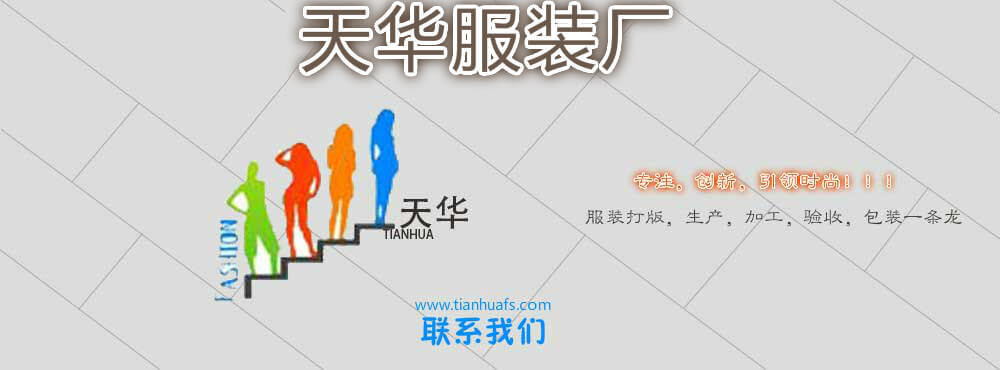
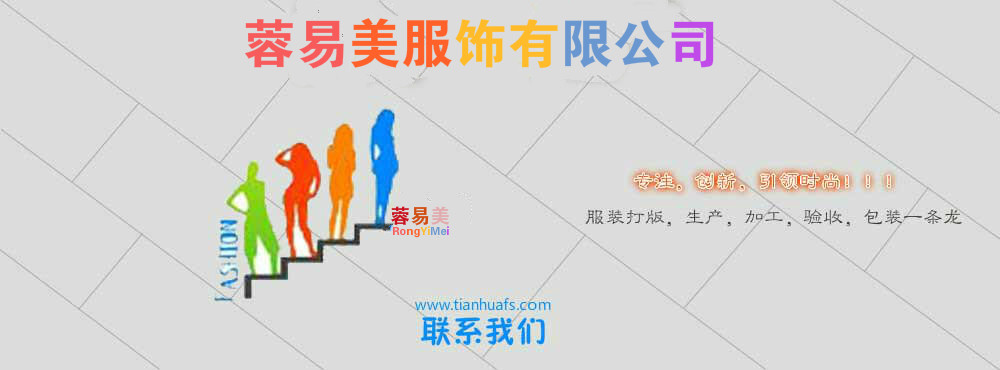
蓉易美

Changed region(s): [[0.248, 0.0, 0.713, 0.2378], [0.372, 0.5351, 0.465, 0.6541]]

diff --git a/css/base.css b/css/base.css
@@ -78,7 +78,7 @@ table{
     width:190px;
     height:70px;
     float: left;
-    background:url(../images/logo.png)left center no-repeat;
+    background:url(../images/logo.jpg)left center no-repeat;
 }
 .header .nav{
     display: inline-block;
@@ -95,14 +95,14 @@ table{
 }
 .header .nav a.active{
     height:70px;
-    color:#104C9D;
-    border-bottom:6px solid #104C9D;
+    color:#F89786;
+    border-bottom:6px solid #F89786;
 }
 .header .nav a:hover{
     text-decoration: none;
     height:70px;
-    color:#104C9D;
-    border-bottom:6px solid #104C9D;
+    color:#F89786;
+    border-bottom:6px solid #F89786;
 }
 .header .user{
     display:inline-block;

diff --git a/introduce.php b/introduce.php
@@ -13,8 +13,8 @@ include "carousel.php";
 <div class="content container-fluid">
     <div class="bg-grey container-fluid">
         <div class="clump w-1000 container">
-            <h3 class="title">工厂介绍</h3>
-            <p class="explain_1">天华服装厂是一家集专业设计、生产和销售于一体的现代化女装工厂。公司自成立以来一直致力于引领都市时尚潮流女性的时尚穿衣品味；崇尚个性化、多元化搭配而又不失经典的着装理念和服饰文化；倾情塑造端庄、知性、优雅的美好女性形象。得到广大客户的好评。</p>
+            <h3 class="title">公司介绍</h3>
+            <p class="explain_1">蓉易美服饰有限公司是一家集专业设计、生产和销售于一体的现代化女装工厂。公司自成立以来一直致力于引领都市时尚潮流女性的时尚穿衣品味；崇尚个性化、多元化搭配而又不失经典的着装理念和服饰文化；倾情塑造端庄、知性、优雅的美好女性形象。得到广大客户的好评。</p>
             <p class="explain_1">凭藉准确的市场定位，经典、时尚而又结合消费群需求的设计风格和人性化的管理理念，得到业界人士的广泛认同，在全国各级客户中拥有良好的口碑和美誉度，公司将不懈努力，深入强化精细化生产管理，强化终端支持和服务客户的理念，秉承“品质、信誉至上”为宗旨，努力将公司品牌打造成艺术追求与商业运作完美融合的时尚潮流知性女装品牌！</p>
             <p class="explain_1">以优良的质量保证，良好的服务水准赢得了国内外客户、贸易公司、厂商的青眯和好评，诚觅新的客商共同合作。</p>
             <p class="explain_1">公司风格定位意在塑造优雅、知性、浪漫而有气质的美好女性形象。对优雅、大气的美好女性形象的执着追求，崇尚知识女性通过外在的高品味着装，体现内在丰富的文化内涵和气质修养，对真爱的追求，对事业和生活的热爱！ 爱是女性生命中最重要的部分，通过修炼自己的内心，汲取知识的养分，丰富自身的内涵转而散发着智慧和自然如华的美好气质，吸引他人的关爱；自身关注亲人、朋友和爱人之间的亲情、友情和爱情，懂得如何去爱，享受幸福的生活! </p>
@@ -25,10 +25,10 @@ include "carousel.php";
                 <img src="./images/bangong.jpg" style="width:70%" alt="">
                 <p style="margin:20px auto">样品区</p>
                 <img src="./images/yangpin.jpg" style="width:70%" alt="">
-                <p style="margin:20px auto">生产区</p>
-                <img src="./images/shengchan.jpg" style="width:70%" alt="">
-                <p style="margin:20px auto">后道</p>
-                <img src="./images/houdao.jpg" style="width:70%" alt="">
+<!--                <p style="margin:20px auto">生产区</p>-->
+<!--                <img src="./images/shengchan.jpg" style="width:70%" alt="">-->
+<!--                <p style="margin:20px auto">后道</p>-->
+<!--                <img src="./images/houdao.jpg" style="width:70%" alt="">-->
             </div>
             
         </div>

diff --git a/footer.php b/footer.php
@@ -18,7 +18,7 @@
 </div>
 
 <div class="copyright">
-    <p>Copyright ©2015版权所有 瑞安天华服装厂</p>
-    <p>RuiAN TianHua （tianhuafs.com） All Rights Reserved. </p>
+    <p>Copyright ©2015版权所有 蓉易美服饰有限公司</p>
+    <p>RuiAN RongYiMei （tianhuafs.com） All Rights Reserved. </p>
 </div>
 
